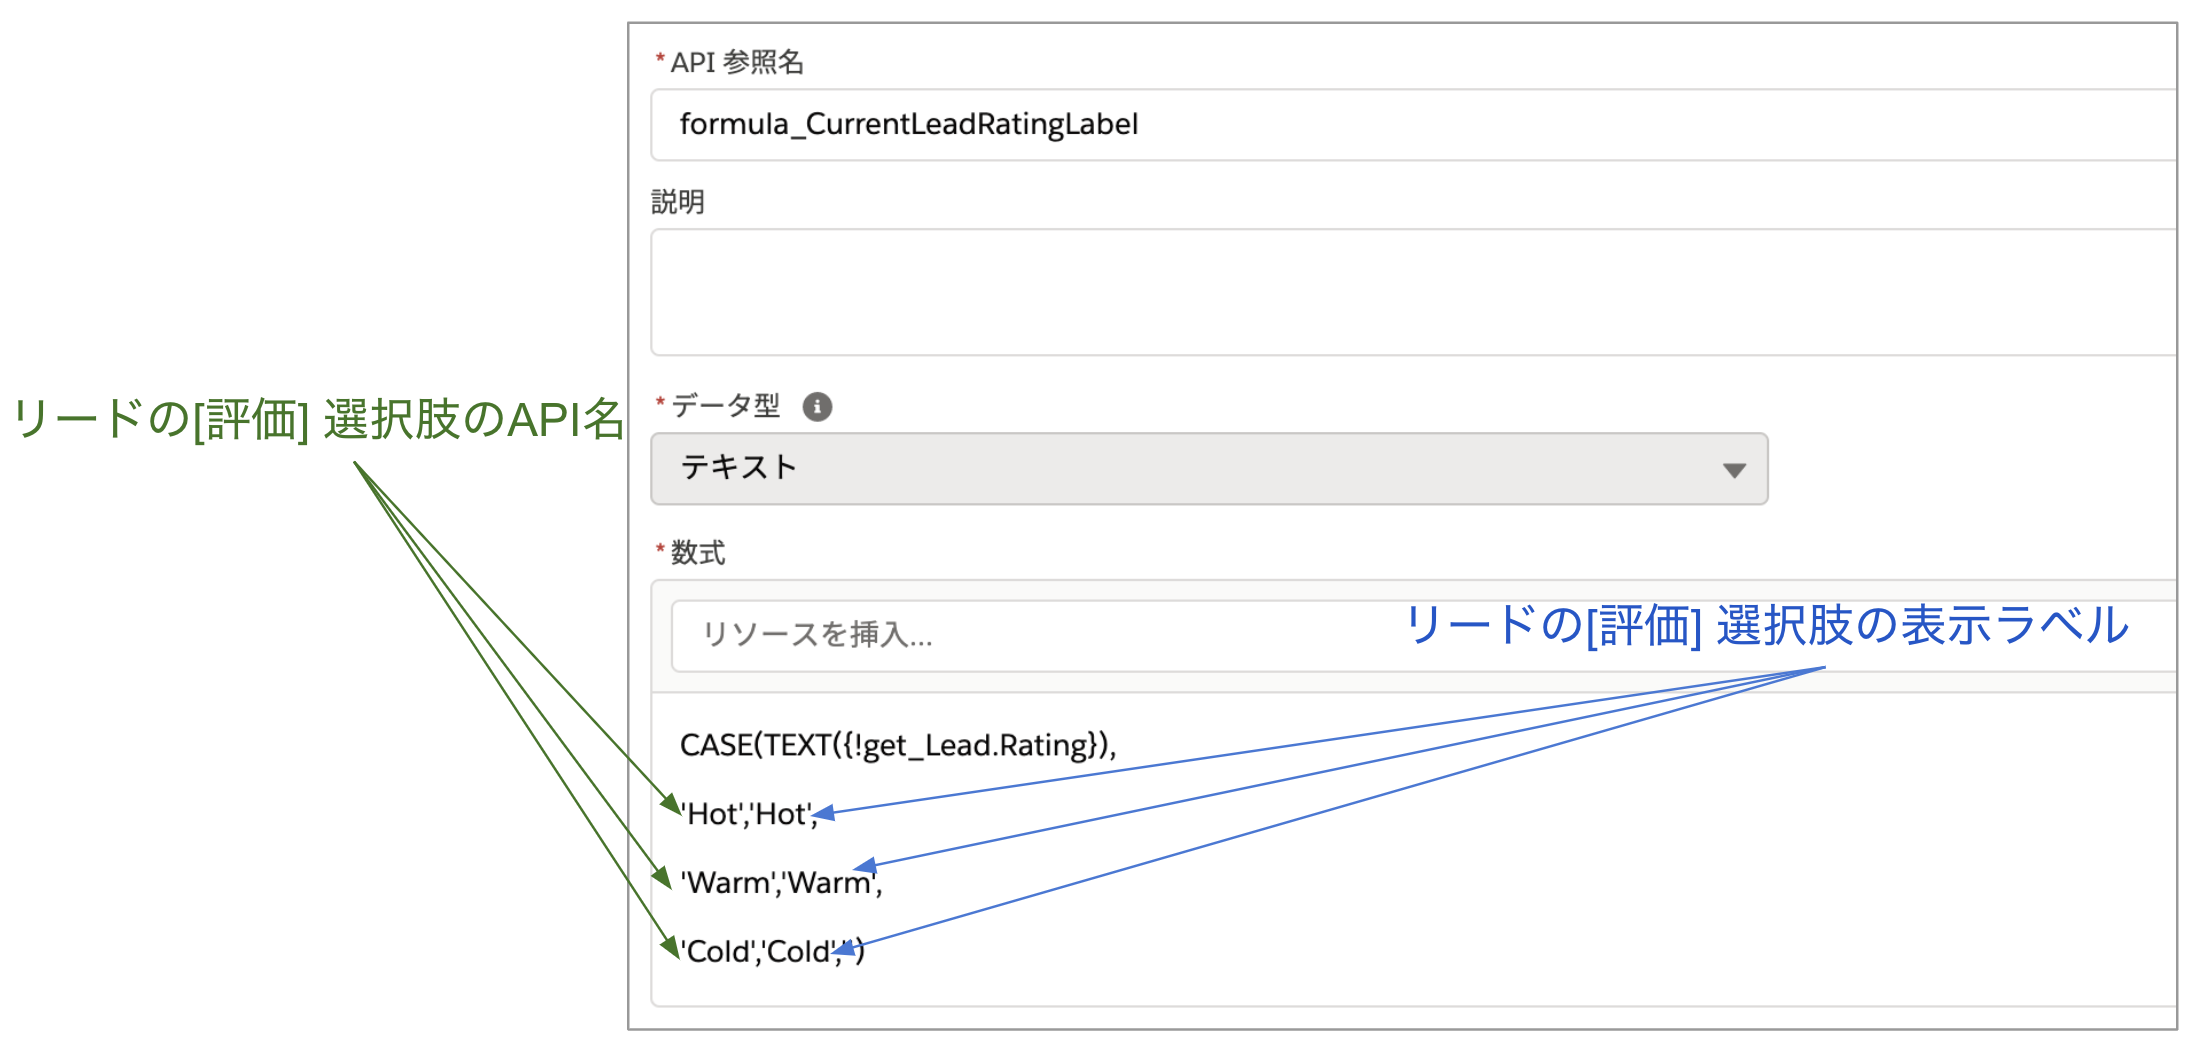
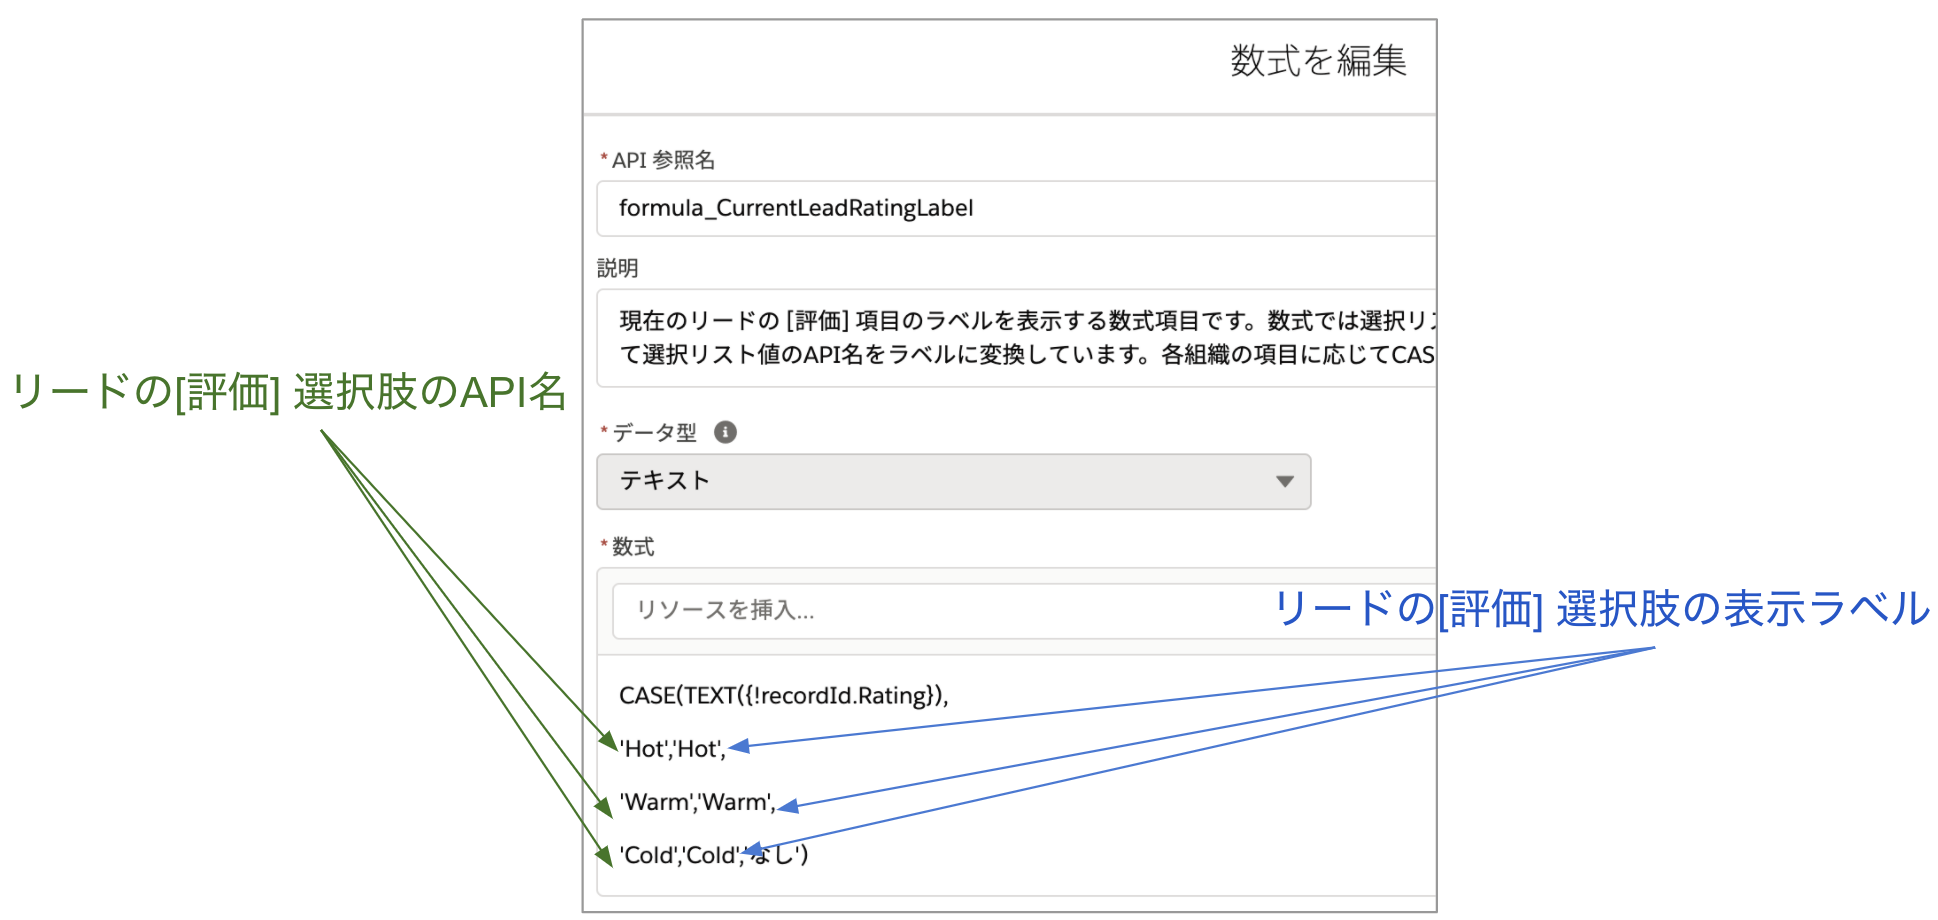
Use recordId as record variable

diff --git a/content/lead-update-screen/index.md b/content/lead-update-screen/index.md
@@ -9,15 +9,13 @@ draft: false
 ![](screenshot.png)
 
 ## 使い方
-フローを有効化後、このフローを使用してリードのクイックアクションを新規作成するか、リードの Lightning ページにフローを直接配置して使用することができます。デバッグする場合は `recordId` に任意のリードのレコード Id を入力して試してください。
+フローを有効化後、このフローを使用してリードのクイックアクションを新規作成するか、リードの Lightning ページにフローを直接配置して使用することができます。デバッグする場合は `recordId` に任意のリードのレコード選択して試してください。
 
 ![](how_to_use.png)
 
 ## ポイント
-### レコード Id の取得
-現在開いているレコード Id をフロー内で取得するには [入力] にチェックの入った `recordId` という名前のテキスト型の変数を用います。この変数には自動的に現在開いているレコード の Id がセットされます。
-
-### レコードの更新
+###  Lightning ページやアクションからレコードを取得
+現在開いているレコード Id をフロー内で取得するには [入力] にチェックの入った `recordId` という名前の**レコード型の変数**を用います。これまで、`recordId` は通常テキスト型の項目を用いて、フロー内で [レコードを取得] 要素を用いてレコード情報を取得していました。Summer '20 以降は、レコード型の変数を用いると、フロー内でレコードを取得し直す必要がなくなります。Lightning レコードページでフローを配置する際は、[レコードのすべての項目値をフロー変数に渡します] にチェックを入れてください。
 
 ### 選択リストのデフォルト値
 選択リストやラジオボタンで、現在開いているレコードの選択肢の値をデフォルト値に設定するには少し工夫が必要です。通常、オブジェクトの選択リスト項目を画面フローで使用する場合は、[選択リスト選択肢セット] を使用しますが、これ単独では現在開いているレコードの選択リスト値をデフォルト値として使用することができません。そこで、[レコード選択肢セット] を使用し、`PicklistValueInfo` オブジェクトから、現在開いている値以外の選択リスト値を取得します。加えて、現在開いているレコードの選択リスト値を個別の選択肢として作成し、これらを組み合わせます。
@@ -27,3 +25,6 @@ draft: false
 数式 `formula_CurrentLeadRatingLabel` で表現している選択リスト値の表示ラベルは、環境に合わせて修正してください。
 
 ![](formula.png)
+
+### レコードの更新
+レコードを更新する際は、[取引先の作成画面](../account-create-screen) のレコードの作成と同様に、個別に値を設定する方法と、レコード変数を使用する方法の 2 通りがあります。ここでは、一例としてレコード変数 `recordId` に値を割り当てた後、[レコードの更新] 要素でこのレコード変数を参照しています。個別に値を設定する方法でも更新できます。ぜひ試してみてください。

diff --git a/content/_index.md b/content/_index.md
@@ -22,7 +22,7 @@ draft: false
 |フロー名|フローから学べる内容|
 |---|---|
 |[取引先の作成画面](account-create-screen)|・[画面] の使い方<br>・[レコードの作成] の使い方<br>・他のフォームの値に応じてフォームの表示/非表示を切り替える|
-|[リードの更新画面](lead-update-screen)|・開いているレコードの ID を取得する<br>・レコード変数を用いた [レコードの更新] の使い方<br>・選択リスト値のデフォルト値として現在の値を取得する|
+|[リードの更新画面](lead-update-screen)|・開いているレコードの情報を取得する<br>・レコード変数を用いた [レコードの更新] の使い方<br>・選択リスト値のデフォルト値として現在の値を取得する|
 |[取引先と商談を1度に作成する画面](account-opportunity-create-screen)|・リレーションのあるオブジェクトのレコードを作成する|
 |[取引先から取引先責任者に一括メールを送信する画面](mass-email-to-contacts-screen)|・子レコードを取得する (コレクション変数の使い方)<br>・[ループ] の使い方<br>・[決定] の使い方<br>・メール送信アクション|
 |[商談と取引先責任者ロールを1度に作成する画面](opportunity-and-contact-role-create-screen)|・[ルックアップ] の使い方<br>・リレーションのあるオブジェクトのレコードを作成する<br>・固定の大きさのレコードコレクション変数を用いて複数のレコードを作成する|

diff --git a/content/mass-email-to-contacts-screen/index.md b/content/mass-email-to-contacts-screen/index.md
@@ -9,7 +9,7 @@ draft: false
 ![](screenshot.png)
 
 ## 使い方
-フローを有効化し、このフローを使用して取引先のクイックアクションを新規作成するか、取引先の Lightning ページにフローを配置します。デバッグで起動する場合は `recordId` に取引先のレコード ID を入力してください。
+フローを有効化し、このフローを使用して取引先のクイックアクションを新規作成するか、取引先の Lightning ページにフローを配置します。デバッグで起動する場合は `recordId` に任意の取引先のレコードを選択してください。
 
 ![](mass_email_screens.png)
 
